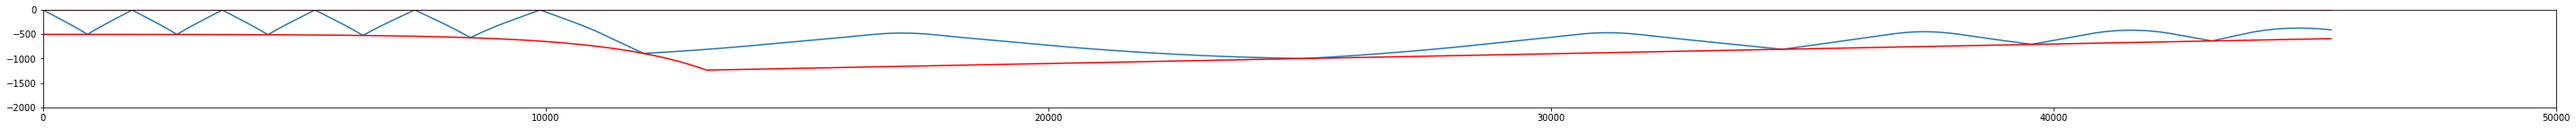
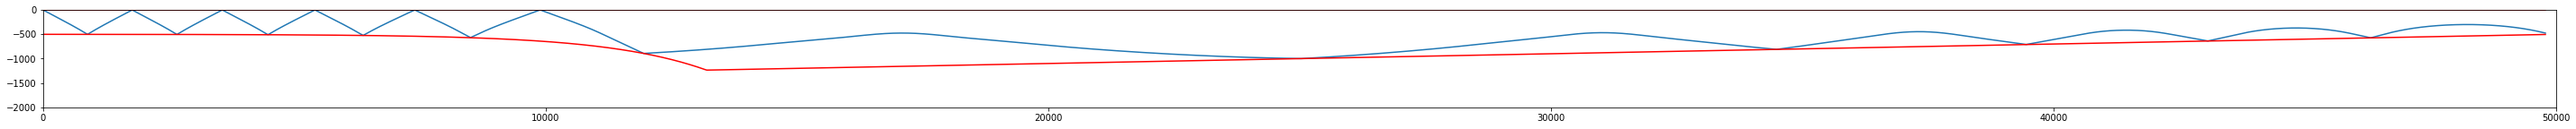
change horizontal resolution

diff --git a/ray.py b/ray.py
@@ -18,7 +18,7 @@ from physics.reflection import reflection_coefficient
 from environment import Environment2D
 
 
-DX_MAX_DEFAULT = 1.0  # 0.1
+DX_MAX_DEFAULT = 10.
 DZ_MAX_DEFAULT = 0.1
 N_STEPS_MAX = 100000
 N_REBOUNDS_MAX = -1  # -1=infinity
